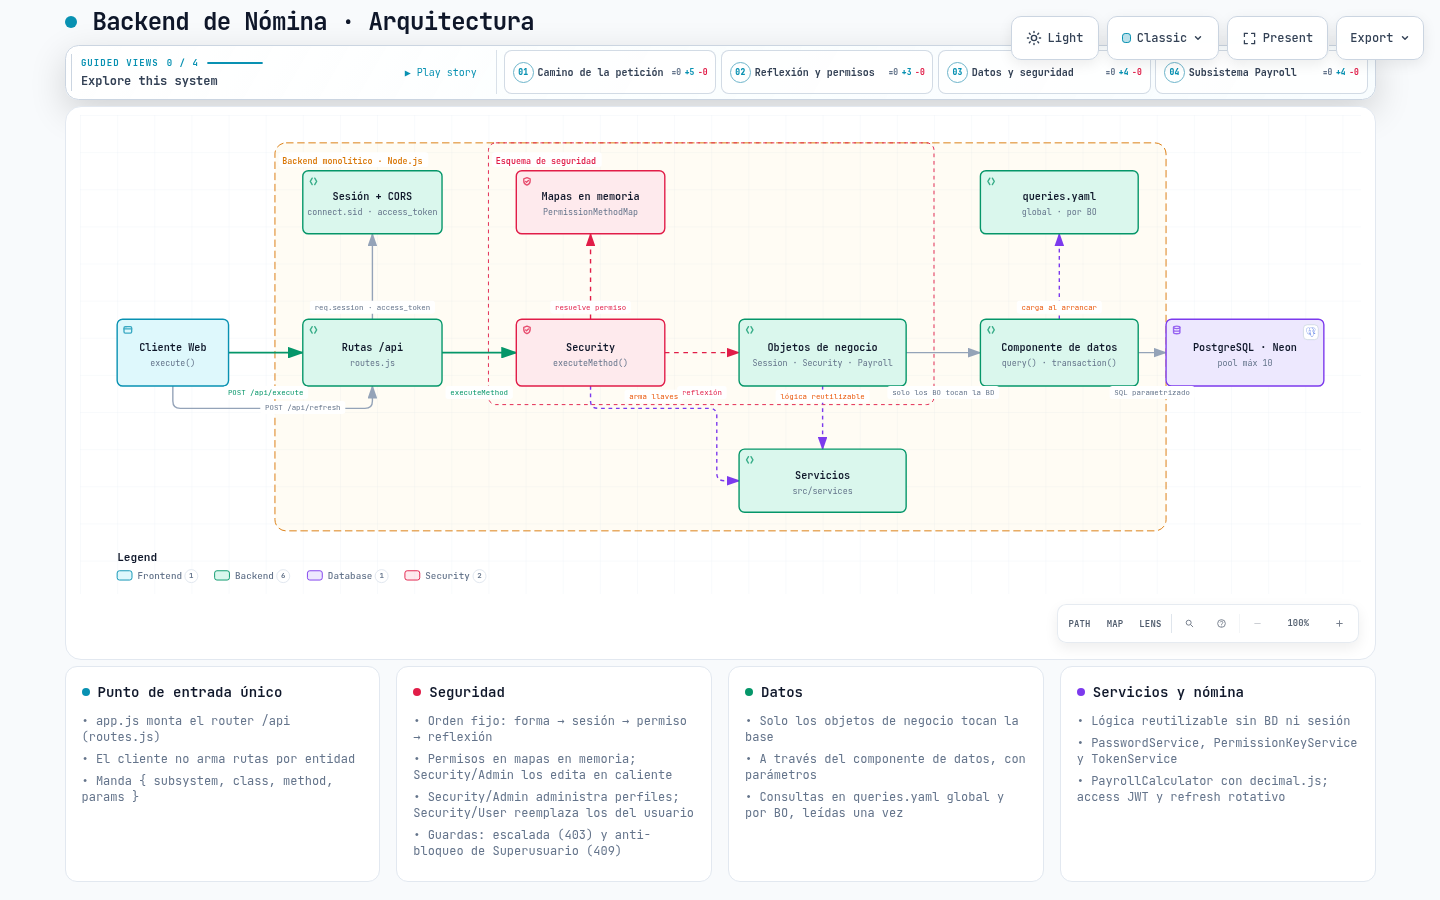
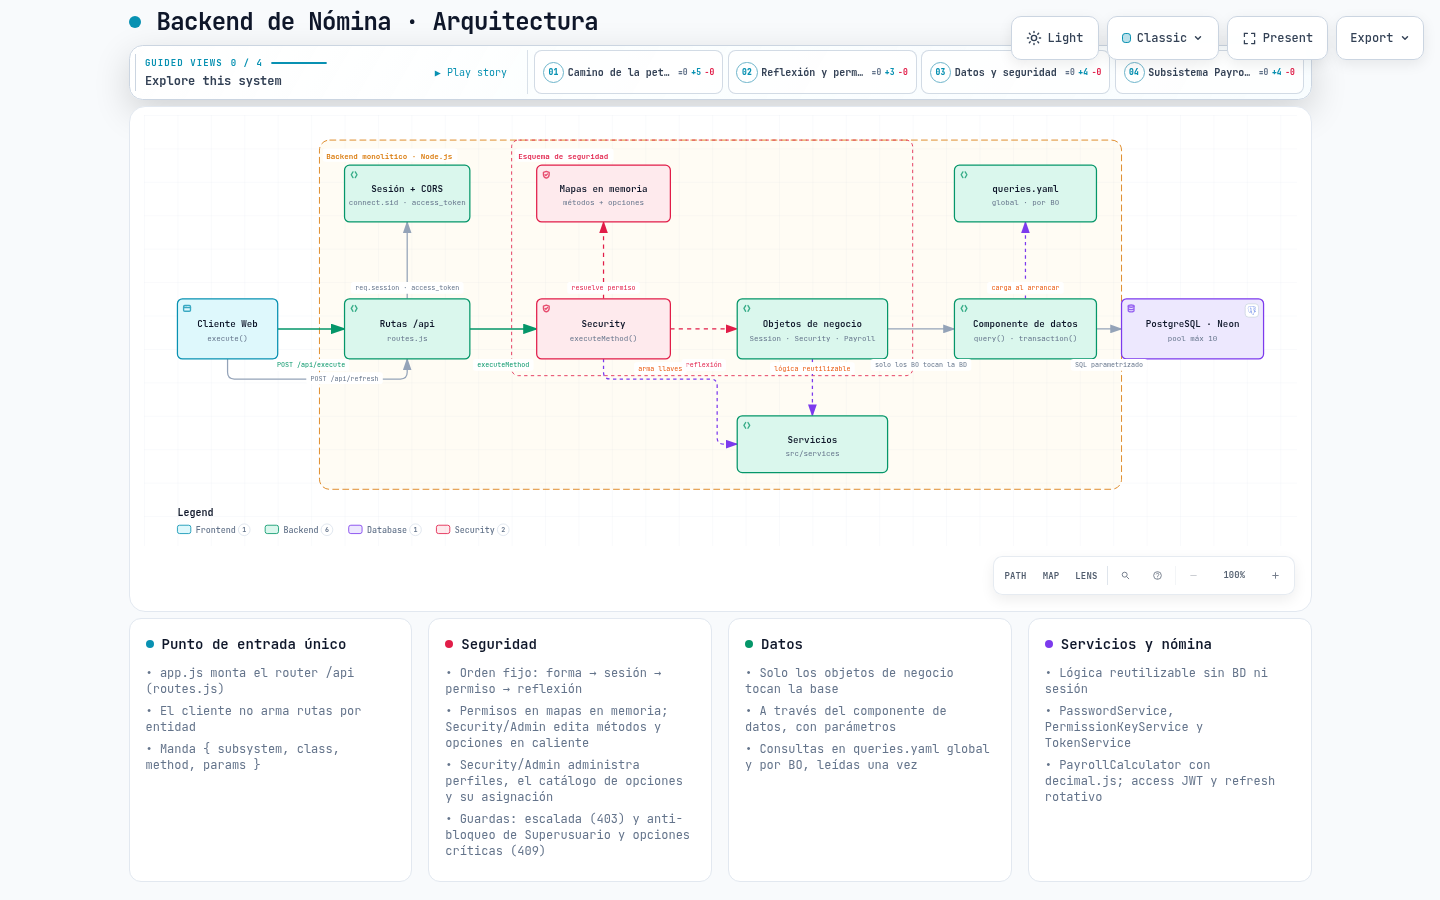
docs: administracion de opciones de menu

diff --git a/archify-out/payroll-backend-architecture.html b/archify-out/payroll-backend-architecture.html
@@ -5280,8 +5280,8 @@ OTHER DEALINGS IN THE FONT SOFTWARE.
         <text data-detail="fine" x="315" y="120" class="t-backend" font-size="7" text-anchor="middle">express-session + JWT</text>
         </g>
 
-        <g id="node-permisos" data-node-id="permisos" data-node-label="Mapas en memoria" tabindex="0" role="button" aria-label="Focus Mapas en memoria, PermissionMethodMap, Backend monolítico · Node.js › Esquema de seguridad" aria-pressed="false" data-node-kind="security" data-node-sublabel="PermissionMethodMap" data-node-tag="O(1) por perfil · edición en caliente" data-node-context="Backend monolítico · Node.js › Esquema de seguridad">
-          <title>Mapas en memoria · PermissionMethodMap · Backend monolítico · Node.js › Esquema de seguridad · O(1) por perfil · edición en caliente</title>
+        <g id="node-permisos" data-node-id="permisos" data-node-label="Mapas en memoria" tabindex="0" role="button" aria-label="Focus Mapas en memoria, métodos + opciones, Backend monolítico · Node.js › Esquema de seguridad" aria-pressed="false" data-node-kind="security" data-node-sublabel="métodos + opciones" data-node-tag="O(1) por perfil · edición en caliente" data-node-context="Backend monolítico · Node.js › Esquema de seguridad">
+          <title>Mapas en memoria · métodos + opciones · Backend monolítico · Node.js › Esquema de seguridad · O(1) por perfil · edición en caliente</title>
           <rect x="470" y="60" width="160" height="68" rx="6" class="c-mask"/>
           <rect x="470" y="60" width="160" height="68" rx="6" class="c-security" stroke-width="1.5"/>
           <g aria-hidden="true" data-semantic-sigil="security" class="semantic-sigil s-security" transform="translate(476 66) scale(0.6875)">
@@ -5289,7 +5289,7 @@ OTHER DEALINGS IN THE FONT SOFTWARE.
             <path d="m5.8 8 1.5 1.5 3-3"/>
           </g>
           <text data-node-label="" data-detail-anchor="" x="550" y="92" class="t-primary" font-size="11" font-weight="600" text-anchor="middle">Mapas en memoria</text>
-        <text data-detail="context" x="550" y="108" class="t-muted" font-size="9" text-anchor="middle">PermissionMethodMap</text>
+        <text data-detail="context" x="550" y="108" class="t-muted" font-size="9" text-anchor="middle">métodos + opciones</text>
         <text data-detail="fine" x="550" y="120" class="t-security" font-size="6.8" text-anchor="middle">O(1) por perfil · edición en caliente</text>
         </g>
 
@@ -5587,9 +5587,9 @@ OTHER DEALINGS IN THE FONT SOFTWARE.
         </div>
         <ul>
           <li>&bull; Orden fijo: forma → sesión → permiso → reflexión</li>
-          <li>&bull; Permisos en mapas en memoria; Security/Admin los edita en caliente</li>
-          <li>&bull; Security/Admin administra perfiles; Security/User reemplaza los del usuario</li>
-          <li>&bull; Guardas: escalada (403) y anti-bloqueo de Superusuario (409)</li>
+          <li>&bull; Permisos en mapas en memoria; Security/Admin edita métodos y opciones en caliente</li>
+          <li>&bull; Security/Admin administra perfiles, el catálogo de opciones y su asignación</li>
+          <li>&bull; Guardas: escalada (403) y anti-bloqueo de Superusuario y opciones críticas (409)</li>
         </ul>
       </div>
 

diff --git a/AGENTS.md b/AGENTS.md
@@ -121,6 +121,26 @@ escalada de privilegios (`403` si un no Superusuario intenta asignar
 renombra/desactiva o si se quita al último superusuario activo). `pnpm test`
 102/102 y `scripts/manual/perfiles_e2e.mjs` 43/43 → `PERFILES E2E OK`.
 
+**Spec 011 (administración de opciones de menú) implementada (2026-11-09):**
+`Security/Admin` suma el catálogo `listarSubsistemas`, `listarOpciones`,
+`crearOpcion`, `editarOpcion` y `cambiarEstadoOpcion`, y la asignación
+perfil ↔ opción `listarPermisosOpcion`, `asignarPermisoOpcion` y
+`quitarPermisoOpcion`, todos solo para `Superusuario`. La migración
+`db/migrations/010_opciones_perfil.sql` siembra los siete métodos del
+catálogo y la asignación, sus permisos y la opción de menú `Opciones`
+(Security, orden 5); la `011_listar_subsistemas.sql` agrega
+`listarSubsistemas`, que es el origen de los `subsistemaId` de `crearOpcion`.
+No hay cambio de esquema.
+`crearPerfil` acepta un tercer parámetro opcional `perfilPlantillaId` y clona
+en la misma transacción los `permiso_metodo` **y** los `permiso_opcion` de la
+plantilla, para que el perfil nuevo no vea entradas que no puede ejecutar.
+`listarOpciones` devuelve activas e inactivas con `subsistemaId`, `perfiles`
+(solo perfiles activos) y `protegida`. Guardas: `OPCIONES_CRITICAS =
+{Security/Opciones, Security/Permisos, Security/Perfiles, Security/Usuarios}`
+no se pueden quitar, renombrar ni desactivar en `Superusuario` (`409`), y
+`METODOS_CRITICOS` incluye los ocho métodos nuevos. `pnpm test` 133/133 y
+`scripts/manual/opciones_e2e.mjs` 62/62 → `OPCIONES E2E OK`.
+
 **Pendiente:** el endpoint del menú y el front (Fase 5), y migrar las
 consultas de `queries.yaml` a los BO.
 
@@ -418,11 +438,61 @@ o datos desechables), y ninguna prueba depende de otra.
 - **`req.session.profiles` puede no traer nombres.** El camino de access token
   guarda ids; la guarda de escalada consulta los nombres con
   `findActiveProfilesByIds` en vez de confiar en `detallesPerfiles`.
+- **`GROUP BY` debe incluir toda columna no agregada.** `findAllOptionsAdmin`
+  agrega `s.id AS subsistema_id` para que el front pueda crear opciones en ese
+  subsistema; sin agregar `s.id` al `GROUP BY`, PostgreSQL responde `42803`.
+  Las pruebas con base falsa no ven SQL: el E2E real sí.
+- **Ocultar una opción no revoca el método.** No existe relación
+  `opcion ↔ metodo` en el esquema: quitar la opción del menú deja el endpoint
+  ejecutable si el permiso de método sigue concedido. Se avisa en el front.
+- **`setPermissionOption` exige los seis campos** (`id`, `nombre`, `orden`,
+  `descripcion`, `subsistema`, `perfilId`); con datos incompletos el menú
+  pinta `undefined`. `asignarPermisoOpcion` los arma desde la fila de la BD.
+- **Renombrar o desactivar una opción exige recargar el mapa.** La llave es
+  `Subsistema_nombre_perfilId` y el nombre vive dentro del valor; por eso
+  `editarOpcion` y `cambiarEstadoOpcion` llaman `loadPermission`. Desactivar
+  no borra `permiso_opcion`: reactivar restaura el acceso.
+- **El nombre de una opción no puede llevar `_`.** La llave del mapa usa `_`
+  como separador; permitirlo volvería ambiguas dos combinaciones distintas.
+  Se valida 2–80 alfanuméricos empezando por letra.
 
 ## Decisiones de diseño
 
 Registro de decisiones con su motivo. Las viejas no se editan: si una cambia,
 se agrega una nueva que la reemplaza.
+
+### 2026-11-09
+
+- **El catálogo de opciones se administra desde el BO.** `Security/Admin`
+  expone `listarOpciones`, `crearOpcion`, `editarOpcion` y
+  `cambiarEstadoOpcion`, solo para `Superusuario`. Motivo: crear una opción o
+  corregir su orden obligaba a escribir SQL. No hay borrado físico: se
+  desactiva (`activo = false`) y `permiso_opcion` se conserva para que
+  reactivar restaure el acceso.
+- **Asignación perfil ↔ opción simétrica a la de métodos.**
+  `listarPermisosOpcion`, `asignarPermisoOpcion` y `quitarPermisoOpcion`
+  escriben primero en `permiso_opcion` y después actualizan
+  `PermissionOptionMap` con `security.setPermissionOption`, sin reiniciar.
+  `asignar` y `quitar` son idempotentes (`yaEstaba` / `yaNoEstaba`). Es la
+  segunda interfaz que pedía el front: la de métodos es la spec 009.
+- **`listarOpciones` trae `subsistemaId`, `perfiles` y `protegida`.**
+  `subsistemaId` es lo que necesita `crearOpcion` (el front no puede inventar
+  ids); `perfiles` cuenta solo perfiles activos que ven la opción, para avisar
+  antes de desactivarla; `protegida` evita ofrecer acciones que darán `409`.
+- **Guardas de opciones críticas.**
+  `OPCIONES_CRITICAS = {Security/Opciones, Security/Permisos,
+  Security/Perfiles, Security/Usuarios}`: quitar, renombrar o desactivar
+  cualquiera en `Superusuario` responde `409`. Motivo: sin ellas nadie podría
+  volver a administrar la seguridad desde el menú. La guarda es por nombre
+  (`Subsistema/nombre`), no por id.
+- **`crearPerfil` con plantilla opcional.** Tercer parámetro
+  `perfilPlantillaId`: clona `permiso_metodo` y `permiso_opcion` de la
+  plantilla en la misma transacción, después de los 6 permisos base. Motivo:
+  un perfil nuevo que ve entradas que no puede ejecutar confunde al usuario.
+  Sin plantilla, el contrato es idéntico al de la spec 010.
+- **Sin cambio de esquema (011).** Se reutilizan `opcion`, `permiso_opcion`,
+  `permiso_metodo` y `perfil`; `db/schema.dbml` no cambia. La migración 010
+  solo inserta métodos, permisos y la opción `Opciones`.
 
 ### 2026-11-08
 

diff --git a/MEMORY.md b/MEMORY.md
@@ -7,7 +7,7 @@ algo en regla permanente, se mueve a su documento y se quita de este archivo.
 ## Estado actual
 
 - Node.js + Express + `pg` sobre PostgreSQL (Neon). Monolito, un solo punto
-  de entrada al negocio (`POST /execute`, aún no construido).
+  de entrada al negocio (`POST /api/execute` → `Security.executeMethod`).
 - **Fase 0 (Bootstrap + Sesión) hecha**: `src/index.js`, `src/app.js`,
   `src/config/database.js` (Pool), `src/database/Database.js`
   (`query`/`transaction`), `POST /api/login`, `GET /api/me` (protegido) y
@@ -48,12 +48,10 @@ algo en regla permanente, se mueve a su documento y se quita de este archivo.
 
 ## Próximo
 
-- **Terminar la spec 004 (JWT)** — T6 (ruta `/refresh` y guard),
-  T7 (config/docs) y T8 (verificación de punta a punta).
-- **Fase 5** — endpoint de opciones/menú desde `PermissionOptionMap`, front y
-  migrar `queries.yaml` a los BO.
-- Conectar `getPermissionOption`/`setPermissionOption` (API del profesor, hoy
-  sin consumidor).
+- **Front (Fase 5)** — las dos pantallas de administración (perfil ↔ método y
+  perfil ↔ opción) contra los métodos de `Security/Admin`, y el endpoint de
+  opciones/menú desde `PermissionOptionMap`.
+- Migrar `queries.yaml` a los BO.
 
 ## Pendientes menores
 
@@ -85,4 +83,5 @@ algo en regla permanente, se mueve a su documento y se quita de este archivo.
 - **Spec 009 (permisos de método por perfil) implementada (2026-11-08)**: `Security/Admin` suma `listarMetodos`, `listarPermisosMetodo`, `asignarPermisoMetodo` y `quitarPermisoMetodo` (solo `Superusuario`); migración `006_permisos_metodos.sql` con la opción de menú `Permisos` exclusiva de `Superusuario`. La escritura va a `permiso_metodo` y luego al mapa con `security.setPermissionMethod` (en caliente, sin reiniciar); guarda anti-bloqueo 409 para los cinco métodos críticos. `pnpm test` **80/80** y `permisos_e2e.mjs` **38/38 → PERMISOS E2E OK**. Diagrama `archify` y grafo `graphify` refrescados.
 - **Opciones de Security completadas (2026-11-08)**: migración `007_opciones_security.sql`; la base viva tenía `registrar`/`Usuarios`/`Perfiles` sin grants. Quedaron `registrar` → Superusuario/RRHH, `Usuarios` → Superusuario/Administrador/RRHH, `Perfiles` → Superusuario/Administrador, `Permisos` → Superusuario.
 - **Spec 010 (administración de perfiles) implementada (2026-11-08)**: `Security/Admin` suma `listarPerfilesAdmin` (Superusuario y Administrador), `crearPerfil`, `editarPerfil` y `cambiarEstadoPerfil` (solo Superusuario); `Security/User` suma `establecerPerfilesUsuario` (solo Superusuario), que reemplaza el conjunto de perfiles en una transacción, y `listarPerfilesUsuario` (Superusuario y Administrador) para leer el conjunto actual. Migraciones `008_perfiles.sql` y `009_listar_perfiles_usuario.sql` (6 métodos + permisos, sin cambio de esquema). Perfil nuevo con 6 permisos base de sesión. Guardas: escalada de privilegios (`403`) y anti-bloqueo de `Superusuario` (`409`). `pnpm test` **102/102** y `perfiles_e2e.mjs` **43/43 → PERFILES E2E OK**. Diagrama `archify` y grafo `graphify` refrescados.
-- **Pendiente de la 010**: administrar `permiso_opcion` (qué opciones ve un perfil) quedó fuera de alcance, para una spec posterior.
+- **Spec 011 (administración de opciones de menú) implementada (2026-11-09)**: `Security/Admin` suma `listarSubsistemas`, `listarOpciones`, `crearOpcion`, `editarOpcion`, `cambiarEstadoOpcion`, `listarPermisosOpcion`, `asignarPermisoOpcion` y `quitarPermisoOpcion` (solo Superusuario); migraciones `010_opciones_perfil.sql` (7 métodos, permisos y opción `Opciones`) y `011_listar_subsistemas.sql`. `listarOpciones` trae `subsistemaId`, `perfiles` y `protegida`; las mutaciones recargan el mapa en caliente. `crearPerfil` acepta `perfilPlantillaId` y clona métodos y opciones de la plantilla. Guardas `OPCIONES_CRITICAS` y `METODOS_CRITICOS` (`409`). `pnpm test` **133/133** y `opciones_e2e.mjs` **62/62 → OPCIONES E2E OK**. Diagrama `archify` y grafo `graphify` refrescados.
+- **Pendiente de la 010**: administrar `permiso_opcion` (qué opciones ve un perfil) quedó fuera de alcance; lo cubre la spec 011.

diff --git a/docs/bitacora.md b/docs/bitacora.md
@@ -255,3 +255,39 @@ es. Orden cronológico.
   en el BO (`LOWER()`); la BD no tiene índice único funcional, así que dos
   creaciones concurrentes de `Contador`/`contador` podrían pasar. Se
   documenta sin cambiar el esquema.
+
+### Administración de opciones de menú por perfil (2026-11-09)
+
+- Spec 011: `Security/Admin` suma el catálogo `listarSubsistemas`,
+  `listarOpciones`, `crearOpcion`, `editarOpcion` y `cambiarEstadoOpcion`, y
+  la asignación perfil ↔ opción
+  `listarPermisosOpcion`, `asignarPermisoOpcion` y `quitarPermisoOpcion`,
+  todos solo para `Superusuario`. Es la segunda interfaz de administración que
+  necesita el front; la de métodos ya existía desde la spec 009.
+- La migración idempotente `db/migrations/010_opciones_perfil.sql` siembra los
+  siete métodos del catálogo y la asignación, concede sus permisos solo a
+  `Superusuario` y crea la opción de menú `Opciones` (Security, orden 5),
+  exclusiva de ese perfil. La `011_listar_subsistemas.sql` agrega
+  `listarSubsistemas` (el formulario de creación necesita el id de cualquier
+  subsistema, incluso de uno sin opciones). Sin cambio de esquema.
+- `listarOpciones` devuelve activas e inactivas con `subsistemaId` (lo que
+  necesita `crearOpcion`), `perfiles` (solo perfiles activos que la ven) y
+  `protegida`. `editarOpcion` y `cambiarEstadoOpcion` recargan
+  `PermissionOptionMap`; desactivar no borra `permiso_opcion`, así que
+  reactivar restaura el acceso. Renombrar cambia la llave del mapa.
+- Guardas: `OPCIONES_CRITICAS = {Security/Opciones, Security/Permisos,
+  Security/Perfiles, Security/Usuarios}` no se pueden quitar, renombrar ni
+  desactivar en `Superusuario` (`409`); `METODOS_CRITICOS` suma los siete
+  métodos nuevos. Nombre de opción: 2–80 alfanuméricos empezando por letra,
+  sin `_`; único por subsistema con `LOWER()`; `orden` entero 0–32767.
+- `crearPerfil` acepta un tercer parámetro opcional `perfilPlantillaId` y
+  clona `permiso_metodo` y `permiso_opcion` de la plantilla en la misma
+  transacción, después de los 6 permisos base. Sin plantilla, el contrato es
+  idéntico a la spec 010.
+- Verificación: `pnpm test` **133/133** (31 casos en
+  `test/adminOpciones.test.js`) y `node scripts/manual/opciones_e2e.mjs
+  --yes` **62/62 → OPCIONES E2E OK**, comprobando el menú en caliente y
+  restaurando los perfiles de `admin_prueba` y borrando los temporales.
+- El E2E real destapó un `GROUP BY` incompleto en `findAllOptionsAdmin`
+  (`s.id` faltaba) que la base falsa no podía ver: PostgreSQL respondía
+  `42803`. Corregido y documentado en `AGENTS.md`.
